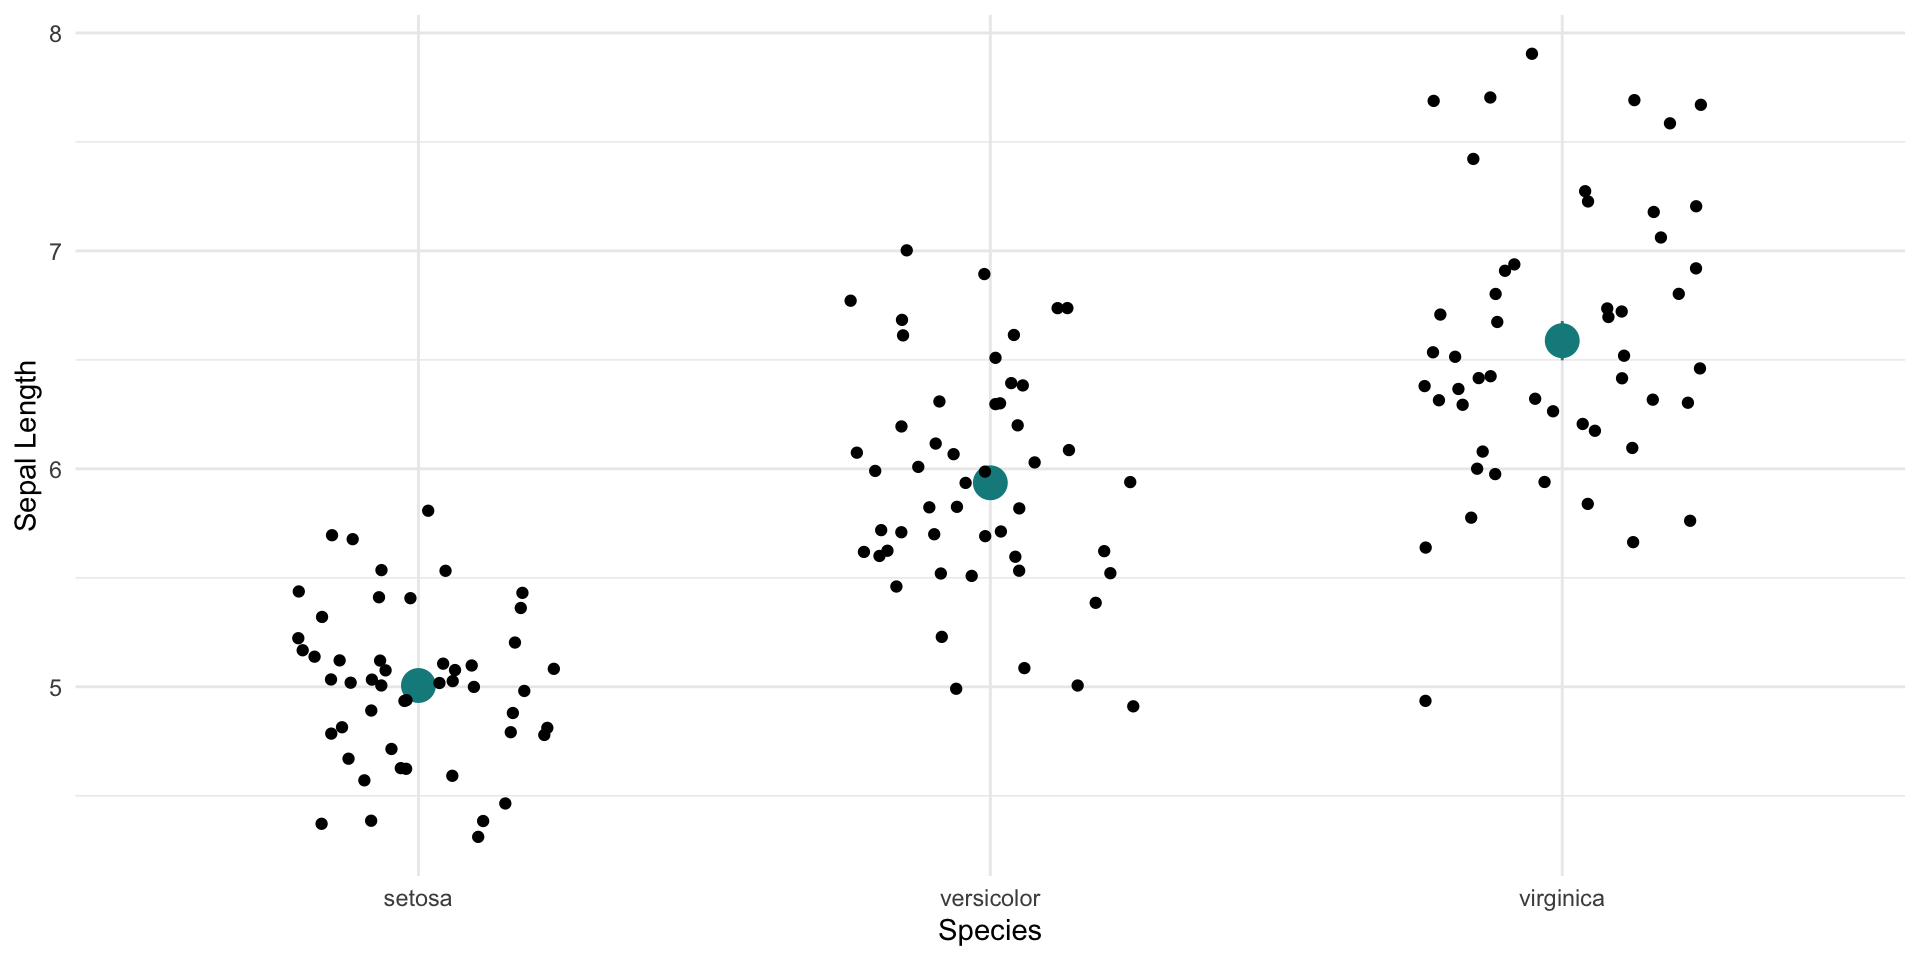
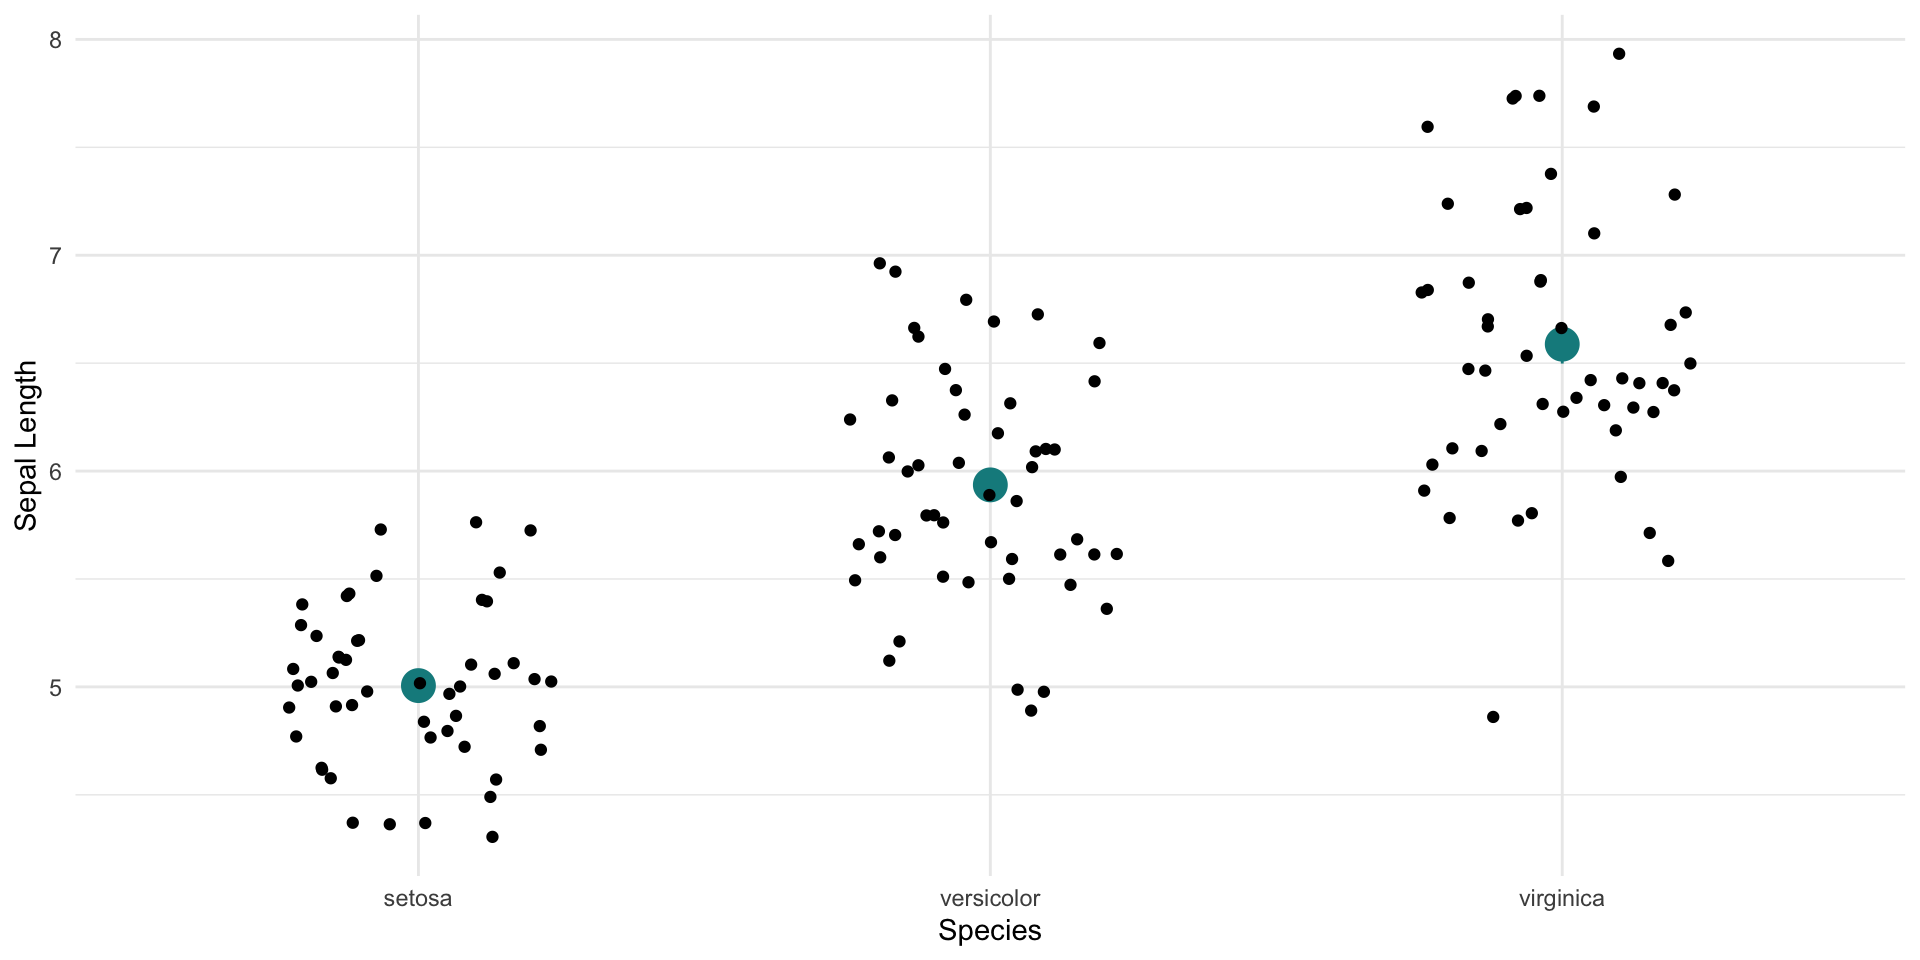
Standardize gitignore and in-class.qmd title
- Replace README-specific gitignore rules with the generic root-only
  /*.html + /*_files/ rule used across all modules
- Standardize in-class.qmd title to "In Class Activity - Analysis of Variance"

diff --git a/docs/in-class.html b/docs/in-class.html
@@ -8,7 +8,7 @@
 
 <meta name="author" content="YOUR NAME HERE">
 
-<title>Analysis of Variance</title>
+<title>In Class Activity - Analysis of Variance</title>
 <style>
 /* Default styles provided by pandoc.
 ** See https://pandoc.org/MANUAL.html#variables-for-html for config info.
@@ -85,7 +85,7 @@ pre > code.sourceCode > span > a:first-child::before { text-decoration: underlin
 
 <header id="title-block-header" class="quarto-title-block default">
 <div class="quarto-title">
-<h1 class="title">Analysis of Variance</h1>
+<h1 class="title">In Class Activity - Analysis of Variance</h1>
 </div>
 
 
